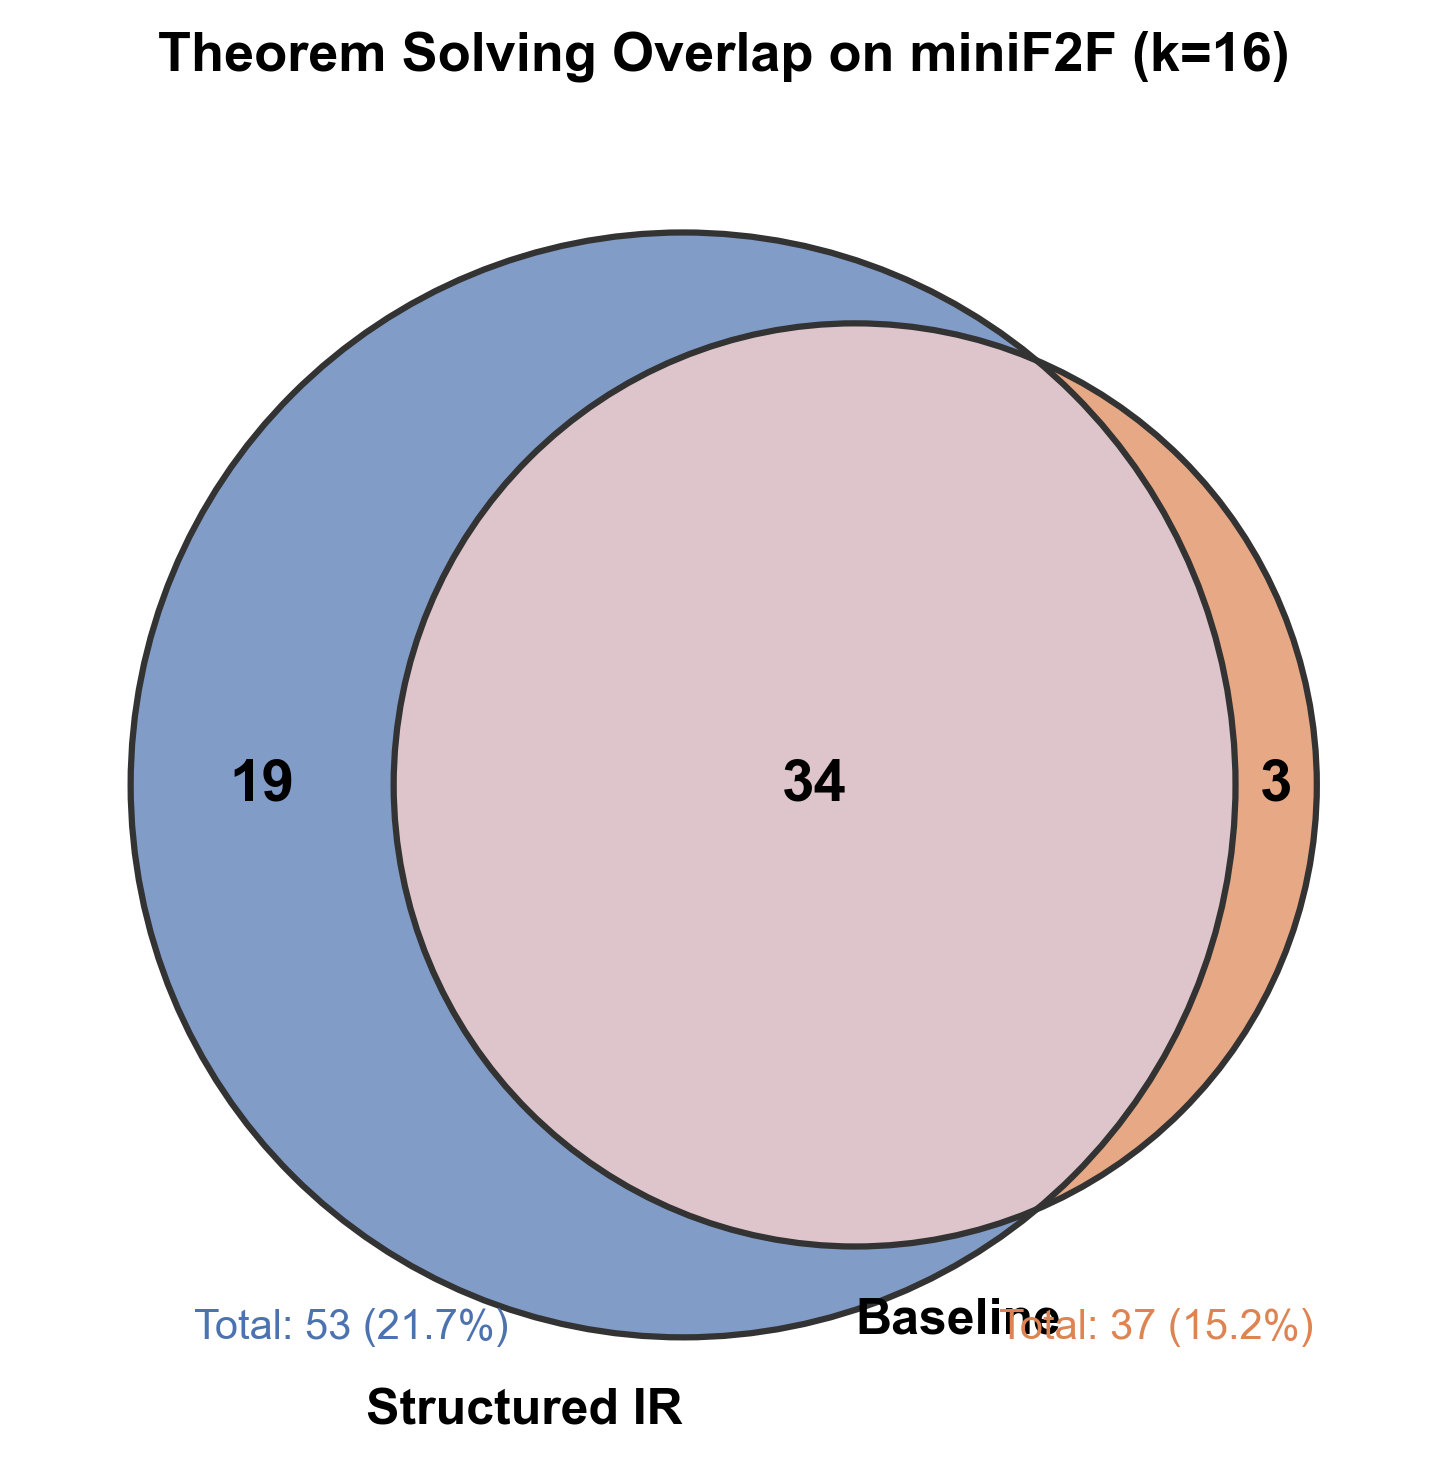
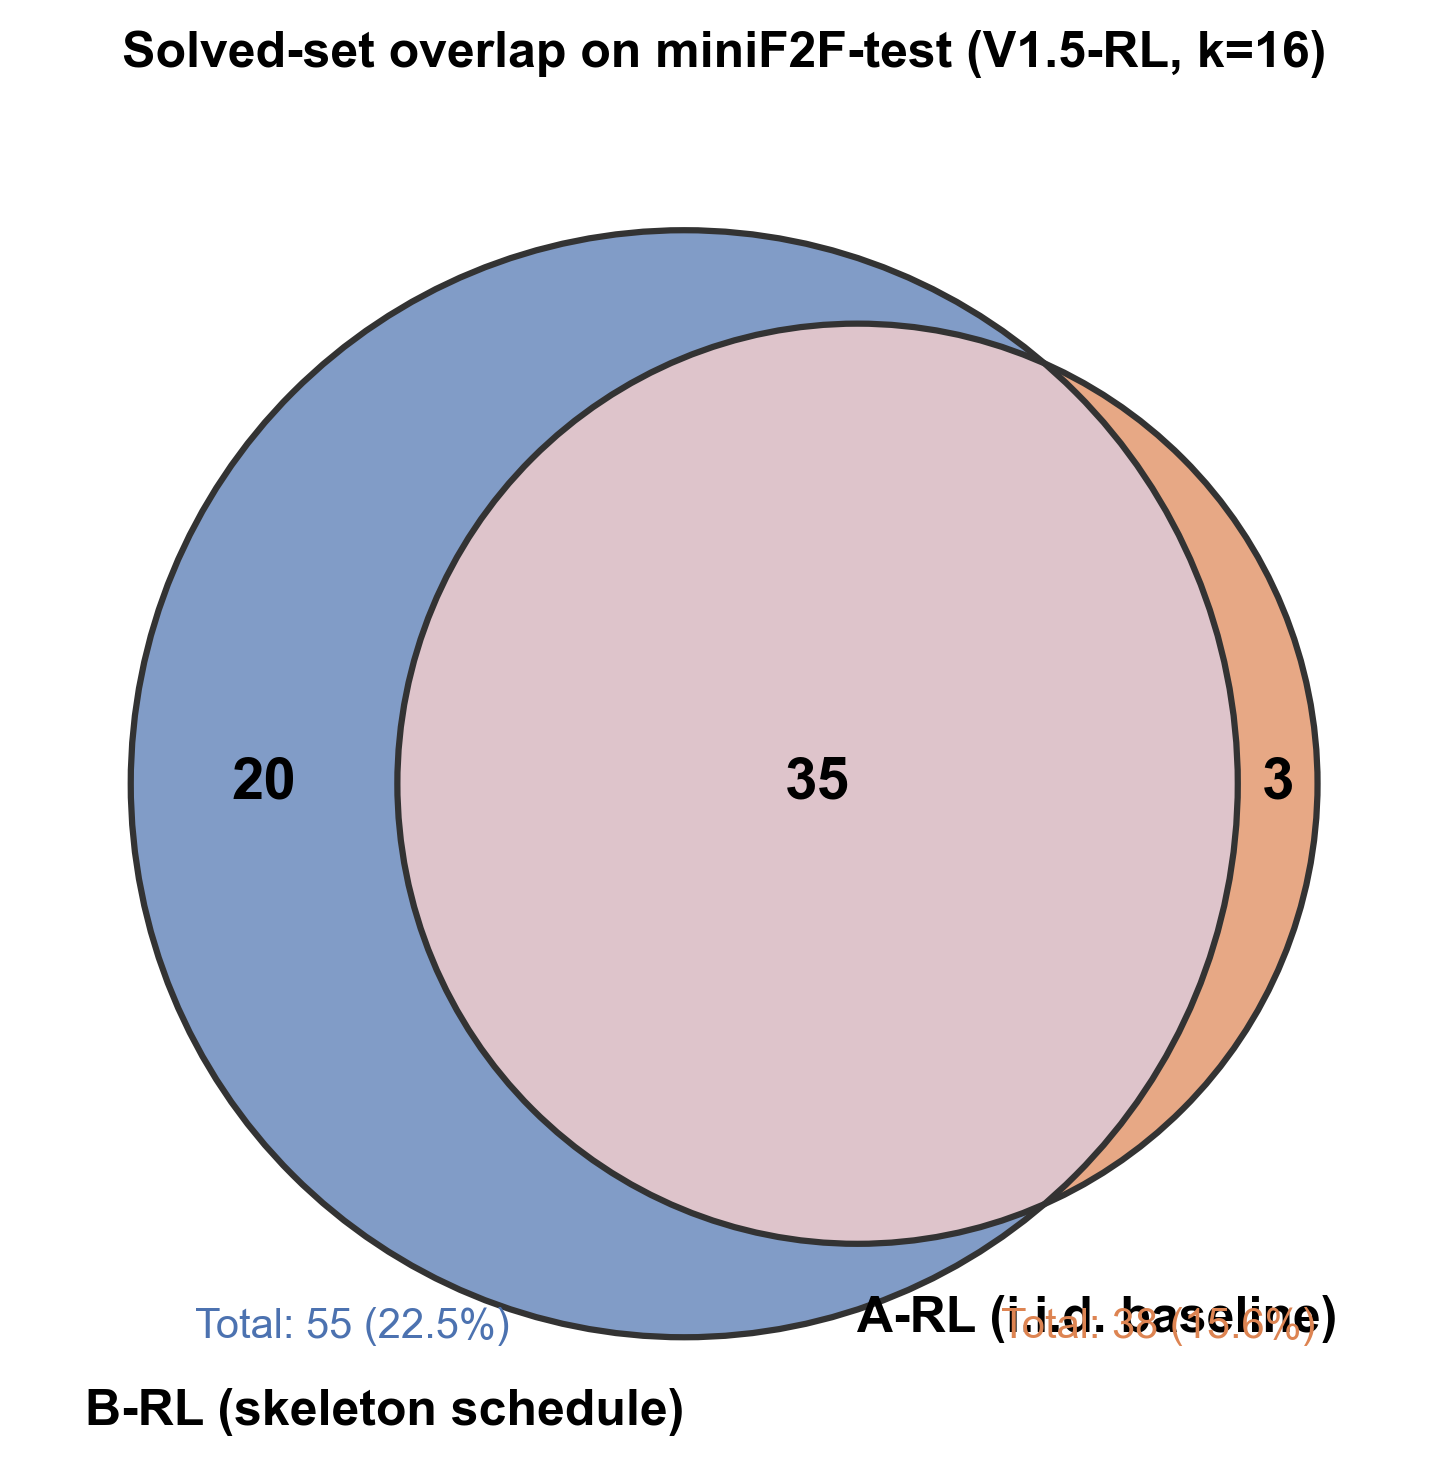
Add Venn + per-skeleton figures to project page
figures/venn_diagram.py
  - Update numbers to paper's Section 4.5: 20/3/35 (was 19/3/34)
  - Rename labels to A-RL / B-RL to match paper terminology
  - Drop the stale McNemar test annotation (not in current paper)
  - Update totals to 55 (22.5%) and 38 (15.6%)

figures/per_skeleton_plot.py (new)
  - Mirrors scripts/per_skeleton_analysis.py: reads outputs/, maps
    each attempt's tactic_prefix to one of 15 skeleton IDs, drops
    attempt 015 (k=16 wrap), per-shard solve counts over 24 shards.
  - Output: per_skeleton.{pdf,png} with (empty)=3.29 and the tail.

docs/index.html
  - Embed Figure 2 (Venn) between Table 1 and the ablation figure.
  - Embed Figure 4 (per-skeleton) between the ablation table and
    the findings bullets.
  - Renumber the ablation figure to Figure 3.

diff --git a/docs/index.html b/docs/index.html
@@ -304,8 +304,13 @@
     </p>
 
     <figure>
+      <img src="figures/venn_overlap.png" alt="Venn diagram of solved theorems at k=16: B-RL solves 55 (20 unique), A-RL solves 38 (3 unique), intersection 35.">
+      <figcaption>Figure 2. Solved-set overlap at k=16. B-RL nearly Pareto-dominates A-RL: 20 theorems are solved only by B-RL, just 3 are solved only by A-RL.</figcaption>
+    </figure>
+
+    <figure>
       <img src="figures/ablation.png" alt="Bar chart showing solved theorems at k=16 for C2 (25), A-RL (38), C1 (38), C3 (48), B-RL (55), illustrating the C2 < A-RL = C1 < C3 < B-RL gradient.">
-      <figcaption>Figure 2. Structural-content gradient at k=16: irrelevant tokens hurt; pure paraphrase ties the baseline; NL goal hints recover most of the gap; tactic skeletons go furthest.</figcaption>
+      <figcaption>Figure 3. Structural-content gradient at k=16: irrelevant tokens hurt; pure paraphrase ties the baseline; NL goal hints recover most of the gap; tactic skeletons go furthest.</figcaption>
     </figure>
     <p>Diversity ablation at k=16 isolates structural content from prompt diversity:</p>
     <table>
@@ -327,6 +332,11 @@
     <p class="footnote">
       Clean structural-content gradient: C2 &lt; A-RL = C1 &lt; C3 &lt; B-RL. Irrelevant tokens hurt; pure paraphrase ties the baseline; NL hints alone recover roughly 58% of the A&rarr;B gap; tactic stems contribute the orthogonal remainder.
     </p>
+
+    <figure>
+      <img src="figures/per_skeleton.png" alt="Bar chart of per-skeleton contribution to B-RL k=16: empty skeleton 3.29 of 4.54 solves per shard, intros 0.62, simp 0.17, norm_num 0.17, others below 0.1.">
+      <figcaption>Figure 4. Per-skeleton contribution within B-RL k=16 (24 shards). The empty skeleton (no tactic prefix) carries most of the load; the other 14 skeletons together pick up the long tail, contributing the 17 theorems A-RL i.i.d. misses.</figcaption>
+    </figure>
 
     <ul class="findings">
       <li><strong>The phenomenon is RL-specific.</strong> The non-RL base checkpoint (V1.5-Base) proves 0/244 theorems at every k, with or without skeletons. RL creates both the proof capability and the inference-time collapse that limits it.</li>

diff --git a/figures/per_skeleton_plot.py b/figures/per_skeleton_plot.py
@@ -1,0 +1,166 @@
+#!/usr/bin/env python3
+"""
+Per-skeleton solve breakdown for B-RL k=16 runs, within-shard counting.
+
+Reads outputs/ exactly the way scripts/per_skeleton_analysis.py does: for
+each shard with baseline='structured', model containing 'RL', k=16, walks
+debug_logs/<theorem>/attempt_NNN.json to recover each attempt's tactic
+prefix, maps it to one of the 15 skeleton IDs, and counts solves. Drops
+attempt 15 (k=16 wraps the empty skeleton).
+"""
+import json
+import os
+import sys
+from collections import defaultdict
+from pathlib import Path
+
+import matplotlib
+import matplotlib.pyplot as plt
+
+matplotlib.rcParams['font.family'] = 'sans-serif'
+matplotlib.rcParams['font.sans-serif'] = ['Arial', 'Helvetica', 'DejaVu Sans']
+matplotlib.rcParams['axes.spines.top'] = False
+matplotlib.rcParams['axes.spines.right'] = False
+
+SKELETONS = [
+    "(empty)",
+    "simp",
+    "intro",
+    "intros",
+    "constructor",
+    "refine ?_",
+    "refine <?_, ?_>",
+    "aesop",
+    "norm_num",
+    "linarith",
+    "nlinarith",
+    "ring",
+    "ring_nf",
+    "simp; try aesop",
+    "simp; try nlinarith",
+]
+
+SKELETON_TUPLES = [
+    (),
+    ("simp",),
+    ("intro",),
+    ("intros",),
+    ("constructor",),
+    ("refine ?_",),
+    ("refine ⟨?_, ?_⟩",),
+    ("aesop",),
+    ("norm_num",),
+    ("linarith",),
+    ("nlinarith",),
+    ("ring",),
+    ("ring_nf",),
+    ("simp", "try aesop"),
+    ("simp", "try nlinarith"),
+]
+
+BLUE = '#4C72B0'
+GREY = '#888888'
+
+
+def skeleton_id(prefix):
+    if not prefix:
+        return 0
+    tup = tuple(prefix)
+    if tup in SKELETON_TUPLES:
+        return SKELETON_TUPLES.index(tup)
+    return None
+
+
+def collect(outputs_dir: Path):
+    """Return (per_skeleton_solved_per_shard, n_runs, theorems_per_shard_avg)."""
+    solved_total = defaultdict(int)
+    n_runs = 0
+    total_solved_thms_per_shard = 0
+    for d in sorted(os.listdir(outputs_dir)):
+        events_fp = outputs_dir / d / "events.jsonl"
+        if not events_fp.exists():
+            continue
+        with open(events_fp) as f:
+            ek = json.loads(f.readline()).get("exp_key", {})
+        if ek.get("baseline") != "structured":
+            continue
+        if "RL" not in ek.get("model", ""):
+            continue
+        if ek.get("k") != 16:
+            continue
+
+        debug_dir = outputs_dir / d / "debug_logs"
+        if not debug_dir.is_dir():
+            continue
+
+        n_runs += 1
+        shard_solvers = defaultdict(set)  # theorem -> {skeleton_id, ...}
+        for thm in os.listdir(debug_dir):
+            thm_dir = debug_dir / thm
+            for i in range(15):  # drop attempt_015 (k=16 wrap)
+                ap = thm_dir / f"attempt_{i:03d}.json"
+                rp = thm_dir / f"attempt_{i:03d}_result.json"
+                if not ap.exists() or not rp.exists():
+                    continue
+                with open(ap) as f:
+                    prefix = json.load(f).get("tactic_prefix", [])
+                with open(rp) as f:
+                    res = json.load(f)
+                sid = skeleton_id(prefix)
+                if sid is None:
+                    continue
+                if res.get("proved"):
+                    shard_solvers[thm].add(sid)
+
+        total_solved_thms_per_shard += sum(1 for s in shard_solvers.values() if s)
+        for thm, solvers in shard_solvers.items():
+            for sid in solvers:
+                solved_total[sid] += 1
+
+    per_shard = {sid: solved_total[sid] / max(n_runs, 1) for sid in range(15)}
+    return per_shard, n_runs, total_solved_thms_per_shard / max(n_runs, 1)
+
+
+def plot(outputs_dir: Path, output_path: str):
+    per_shard, n_runs, total_per_shard = collect(outputs_dir)
+    if n_runs == 0:
+        print("No B-RL k=16 runs found under", outputs_dir, file=sys.stderr)
+        sys.exit(1)
+
+    values = [per_shard[i] for i in range(15)]
+    colors = [BLUE if i == 0 else GREY for i in range(15)]
+
+    fig, ax = plt.subplots(figsize=(8.5, 4.0))
+    bars = ax.bar(range(15), values, color=colors, edgecolor='#333', linewidth=0.6, width=0.7)
+
+    for bar, v in zip(bars, values):
+        if v > 0.02:
+            ax.text(bar.get_x() + bar.get_width() / 2,
+                    bar.get_height() + 0.04,
+                    f'{v:.2f}', ha='center', va='bottom',
+                    fontsize=8.5, color='#333')
+
+    ax.set_xticks(range(15))
+    ax.set_xticklabels(SKELETONS, rotation=45, ha='right', fontsize=8.5)
+    ax.set_ylabel(f'Theorems solved per shard\n(avg over {n_runs} shards)', fontsize=9.5)
+    ax.set_title(
+        f'Per-skeleton contribution to B-RL k=16 '
+        f'(sum across all skeletons: {total_per_shard:.2f}/shard)',
+        fontsize=11, fontweight='bold', pad=12,
+    )
+    ax.grid(axis='y', alpha=0.2, linestyle='--', linewidth=0.6)
+    ax.set_axisbelow(True)
+    ax.set_ylim(0, max(values) * 1.18)
+
+    plt.tight_layout()
+    fig.savefig(f'{output_path}.pdf', dpi=300, bbox_inches='tight')
+    fig.savefig(f'{output_path}.png', dpi=200, bbox_inches='tight')
+    print(f'Saved: {output_path}.pdf, {output_path}.png  ({n_runs} shards)')
+    plt.close()
+
+
+if __name__ == '__main__':
+    here = Path(os.path.abspath(__file__)).parent
+    os.chdir(here)
+    outputs_dir = Path(os.environ.get('AUTOFORM_OUTPUTS', here.parent / 'outputs'))
+    plot(outputs_dir, 'per_skeleton')

diff --git a/figures/venn_diagram.py b/figures/venn_diagram.py
@@ -10,10 +10,11 @@ import matplotlib
 matplotlib.rcParams['font.family'] = 'sans-serif'
 matplotlib.rcParams['font.sans-serif'] = ['Arial', 'Helvetica', 'DejaVu Sans']
 
-# Data from experiments
-BOTH = 34          # Solved by both methods
-ONLY_STRUCTURED = 19   # Solved only by Structured IR
-ONLY_BASELINE = 3      # Solved only by Baseline
+# Numbers from leanpaper/main.tex Section 4.5 (Solved-Set Overlap).
+# B-RL totals 55/244, A-RL totals 38/244 at k=16. Intersection = 35.
+BOTH = 35              # Solved by both A-RL and B-RL
+ONLY_STRUCTURED = 20   # Solved only by B-RL (skeleton schedule)
+ONLY_BASELINE = 3      # Solved only by A-RL (i.i.d. baseline)
 
 def create_venn_diagram(output_path: str = "venn_overlap"):
     """Create and save the Venn diagram."""
@@ -24,8 +25,8 @@ def create_venn_diagram(output_path: str = "venn_overlap"):
     # venn2 takes (Ab, aB, AB) = (only left, only right, both)
     v = venn2(
         subsets=(ONLY_STRUCTURED, ONLY_BASELINE, BOTH),
-        set_labels=('Structured IR', 'Baseline'),
-        set_colors=('#4C72B0', '#DD8452'),  # Seaborn-style blue and orange
+        set_labels=('B-RL (skeleton schedule)', 'A-RL (i.i.d. baseline)'),
+        set_colors=('#4C72B0', '#DD8452'),
         alpha=0.7,
         ax=ax
     )
@@ -50,36 +51,25 @@ def create_venn_diagram(output_path: str = "venn_overlap"):
             text.set_fontsize(14)
             text.set_fontweight('bold')
 
-    # Add totals annotation
+    # Totals
     ax.annotate(
-        f'Total: 53 (21.7%)',
+        'Total: 55 (22.5%)',
         xy=(-0.4, -0.55),
         fontsize=10,
         ha='center',
         color='#4C72B0'
     )
     ax.annotate(
-        f'Total: 37 (15.2%)',
+        'Total: 38 (15.6%)',
         xy=(0.4, -0.55),
         fontsize=10,
         ha='center',
         color='#DD8452'
     )
 
-    # Add statistical significance note
-    ax.annotate(
-        r"McNemar's test: $\chi^2$ = 10.23, p < 0.01",
-        xy=(0, -0.72),
-        fontsize=9,
-        ha='center',
-        style='italic',
-        color='#555555'
-    )
-
-    # Title
     ax.set_title(
-        'Theorem Solving Overlap on miniF2F (k=16)',
-        fontsize=13,
+        'Solved-set overlap on miniF2F-test (V1.5-RL, k=16)',
+        fontsize=12,
         fontweight='bold',
         pad=15
     )
@@ -101,7 +91,7 @@ def create_simple_venn(output_path: str = "venn_simple"):
 
     v = venn2(
         subsets=(ONLY_STRUCTURED, ONLY_BASELINE, BOTH),
-        set_labels=('Structured IR\n(53 solved)', 'Baseline\n(37 solved)'),
+        set_labels=('B-RL\n(55 solved)', 'A-RL\n(38 solved)'),
         set_colors=('#4C72B0', '#DD8452'),
         alpha=0.7,
         ax=ax